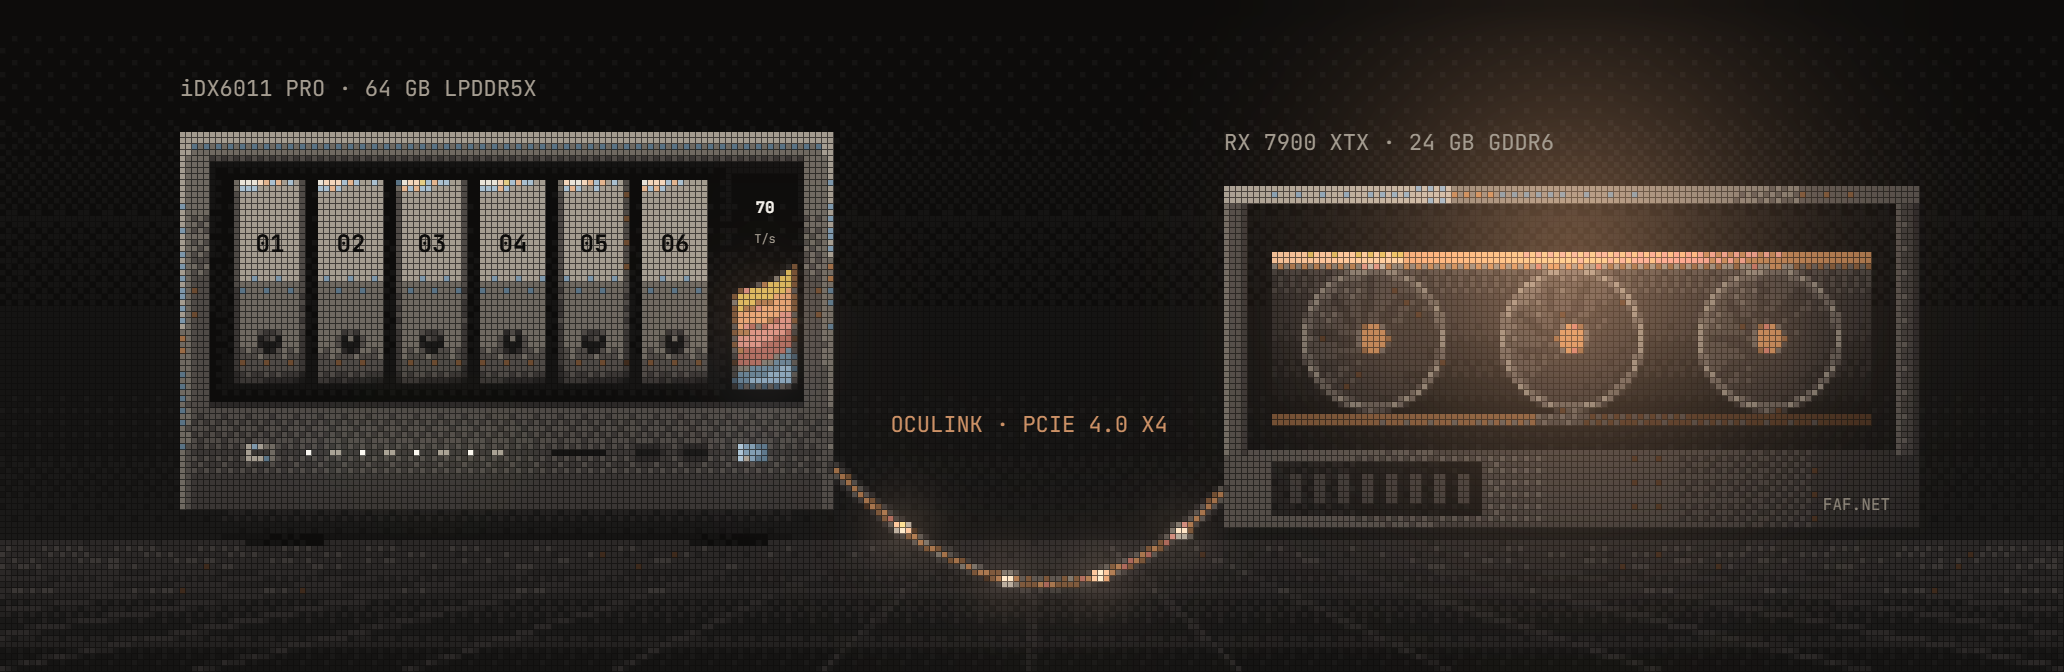
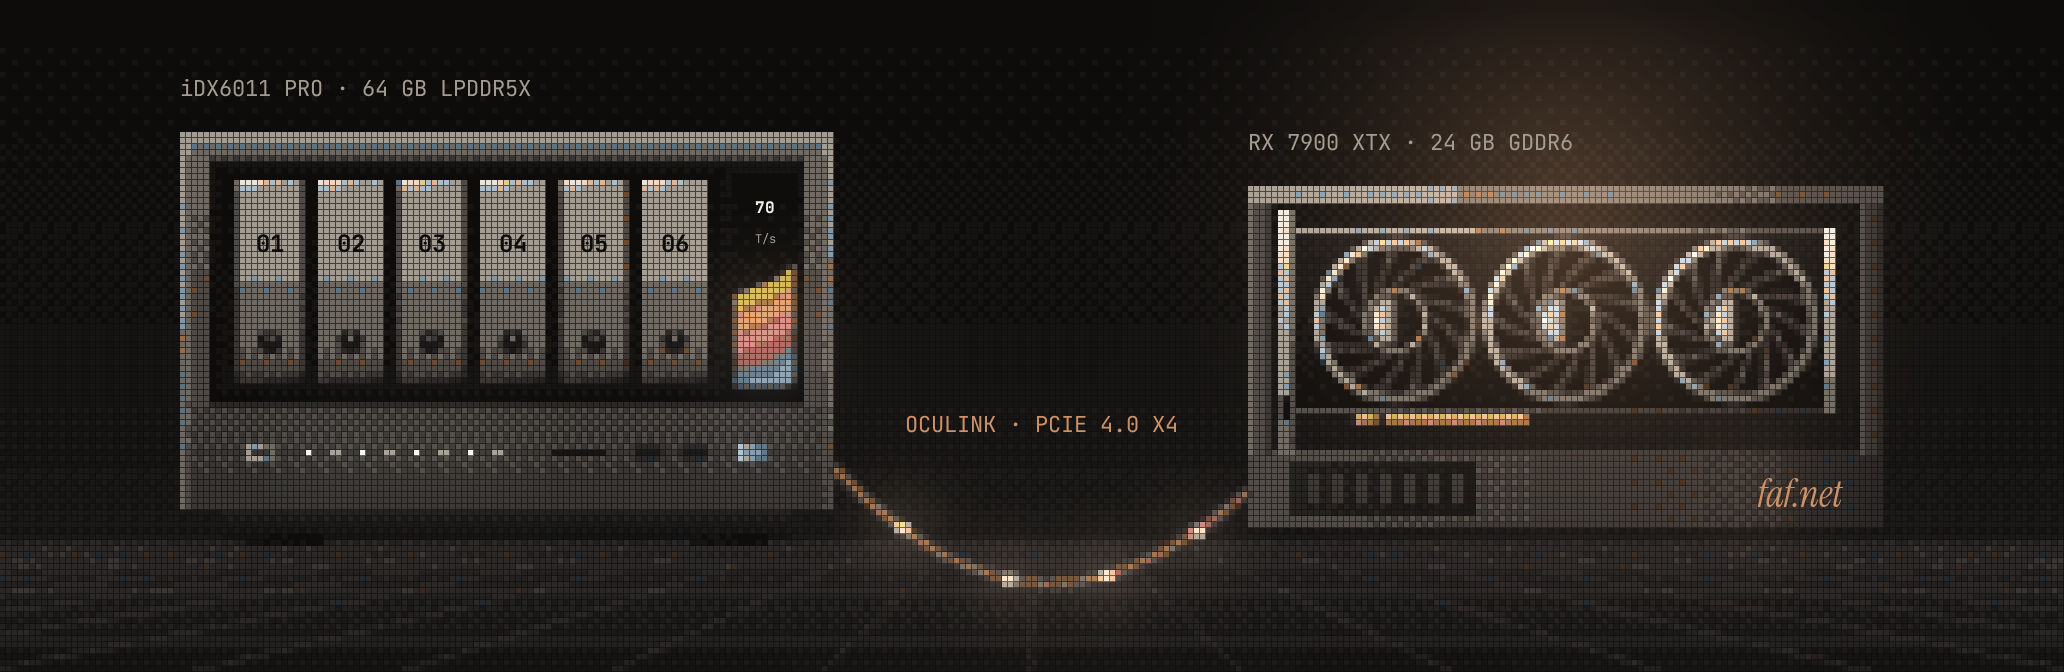
Header picture: the card drawn after the original RX 7900 XTX (proportions, three large fans with silver rings, slot bracket, gold contacts), dock narrower, faf.net as a name plate; renderer embeds the site fonts

diff --git a/web/szene/anlage.js b/web/szene/anlage.js
@@ -49,22 +49,50 @@ function Anlage(canvas, s) {
   kasten(NX + 186, NY + 104, 10, 6, '#a9bfcf', '#5a7385'); leuchte(NX + 191, NY + 107, 9, '#7d97ab', .6);
 
   // ── Dock: offener Rahmen, Netzteil, Karte mit drei Lüftern ──
-  kasten(408, 150, 232, 26, '#4f4a46', '#2b2827');
-  kasten(408, 66, 8, 86, '#6f6961', '#3a3634'); kasten(632, 66, 8, 86, '#4f4a46', '#2b2827'); kasten(408, 62, 232, 6, '#a49c90', '#4f4a46');
-  kasten(424, 154, 70, 18, '#232120', '#151413'); S.fillStyle = '#3a3634'; for (var v = 0; v < 8; v++) S.fillRect(430 + v * 8, 158, 4, 10);
-  kasten(424, 84, 200, 54, '#3a3634', '#151413', true);
-  kasten(424, 84, 200, 5, '#e3b48e', '#9a6b45'); leuchte(524, 86, 150, '#cc9166', .55);
+  // Die Karte nach dem Original (RX 7900 XTX, Frontansicht): Seitenverhältnis 2,9 : 1, schwarzes Gehäuse mit Silberkanten,
+  // drei große Lüfter, die fast die ganze Höhe füllen und sich beinahe berühren, je ein Silberring, gebogene schwarze Blätter
+  // vor hellen Kühlrippen, Nabe halb silbern; links das Slotblech, unten die goldenen PCIe-Kontakte.
+  var DX0 = 416, DW = 212, DR = DX0 + DW;                                                   // Dock 20 Einheiten schmaler als zuvor
+  kasten(DX0, 150, DW, 26, '#4f4a46', '#2b2827');                                           // Sockel mit Netzteil
+  kasten(DX0, 66, 8, 86, '#6f6961', '#3a3634'); kasten(DR - 8, 66, 8, 86, '#4f4a46', '#2b2827'); kasten(DX0, 62, DW, 6, '#a49c90', '#4f4a46');
+  kasten(DX0 + 14, 154, 62, 18, '#232120', '#151413'); S.fillStyle = '#3a3634'; for (var v = 0; v < 7; v++) S.fillRect(DX0 + 20 + v * 8, 158, 4, 10);
+  leuchte(DX0 + DW / 2, 70, 150, '#cc9166', .38);                                           // warmes Licht von oben, schwächer: die Karte bleibt schwarz und silbern
+  var CX = 432, CY = 76, CW = 180, CH = 62;                                                 // Kartenkörper
+  kasten(CX - 6, 70, 5, 82, '#e9e3d8', '#6f6961', true); kasten(CX - 5, 132, 3, 8, '#151413', '#0d0c0b');   // Slotblech mit Anschlüssen
+  [[.11, .15], [.165, .43]].forEach(function (g) { kasten(CX + g[0] * CW, CY + CH, (g[1] - g[0]) * CW, 4, '#e4cd85', '#8d7524', true); });  // PCIe-Kontakte
+  kasten(CX, CY, CW, CH, '#1a1918', '#0d0c0b', true);                                       // Gehäuse
+  kasten(CX, CY, CW, 2, '#a49c90', '#4f4a46'); kasten(CX, CY + CH - 2, CW, 2, '#4f4a46', '#2b2827');   // Silberkanten oben und unten
+  kasten(CX + CW - 4, CY, 4, CH, '#e9e3d8', '#6f6961', true);                               // Silberkappe am Ende
   for (var f = 0; f < 3; f++) {
-    var cx = 458 + f * 66, cy = 113;
-    S.fillStyle = verlauf(cx - 24, cy - 24, cx + 24, cy + 24, [[0, '#4f4a46'], [1, '#1a1918']]); S.beginPath(); S.arc(cx, cy, 23, 0, 7); S.fill();
-    S.strokeStyle = '#6f6961'; S.lineWidth = 2; S.beginPath(); S.arc(cx, cy, 23, 0, 7); S.stroke();
-    S.strokeStyle = '#2b2827'; S.lineWidth = 3; for (var b = 0; b < 9; b++) { var w = b * .7 + f; S.beginPath(); S.moveTo(cx + Math.cos(w) * 6, cy + Math.sin(w) * 6); S.lineTo(cx + Math.cos(w + .5) * 20, cy + Math.sin(w + .5) * 20); S.stroke(); }
-    S.fillStyle = '#9a6b45'; S.beginPath(); S.arc(cx, cy, 5, 0, 7); S.fill(); leuchte(cx, cy, 16, '#cc9166', .5);
+    var cx = CX + [.185, .50, .815][f] * CW, cy = CY + CH / 2, R = 27;
+    S.save(); S.beginPath(); S.arc(cx, cy, R - 1, 0, 7); S.clip();
+    S.fillStyle = '#2b2827'; S.fillRect(cx - R, cy - R, 2 * R, 2 * R);                     // Kühlrippen hinter den Blättern, gedämpft
+    S.fillStyle = '#4f4a46'; for (var r = -R; r < R; r += 4) S.fillRect(cx + r, cy - R, 2, 2 * R);
+    for (var b = 0; b < 13; b++) {                                                          // 13 gebogene Blätter
+      var a = b * 2 * Math.PI / 13 + f * .4;
+      S.fillStyle = '#0d0c0b'; S.beginPath();
+      S.moveTo(cx + Math.cos(a) * 8, cy + Math.sin(a) * 8);
+      S.quadraticCurveTo(cx + Math.cos(a + .55) * 17, cy + Math.sin(a + .55) * 17, cx + Math.cos(a + .95) * (R - 1), cy + Math.sin(a + .95) * (R - 1));
+      S.lineTo(cx + Math.cos(a + 1.28) * (R - 1), cy + Math.sin(a + 1.28) * (R - 1));
+      S.quadraticCurveTo(cx + Math.cos(a + .8) * 15, cy + Math.sin(a + .8) * 15, cx + Math.cos(a + .32) * 8, cy + Math.sin(a + .32) * 8);
+      S.fill();
+      S.strokeStyle = '#3a3634'; S.lineWidth = 1; S.beginPath();                            // Lichtkante am Blatt
+      S.moveTo(cx + Math.cos(a) * 8, cy + Math.sin(a) * 8);
+      S.quadraticCurveTo(cx + Math.cos(a + .55) * 17, cy + Math.sin(a + .55) * 17, cx + Math.cos(a + .95) * (R - 1), cy + Math.sin(a + .95) * (R - 1)); S.stroke();
+    }
+    S.restore();
+    S.strokeStyle = verlauf(cx - R, cy - R, cx + R, cy + R, [[0, '#f5f1eb'], [.45, '#a49c90'], [1, '#4f4a46']]); S.lineWidth = 3;
+    S.beginPath(); S.arc(cx, cy, R - 1, 0, 7); S.stroke();                                  // Silberring
+    S.fillStyle = '#0d0c0b'; S.beginPath(); S.arc(cx, cy, 10, 0, 7); S.fill();              // Nabe: Rand dunkel, links silbern, rechts schwarz
+    S.fillStyle = verlauf(cx - 8, cy, cx + 8, cy, [[0, '#e9e3d8'], [.44, '#a49c90'], [.5, '#151413'], [1, '#0d0c0b']]);
+    S.beginPath(); S.arc(cx, cy, 8, 0, 7); S.fill();
+    S.strokeStyle = '#a49c90'; S.lineWidth = 1.5; S.beginPath(); S.arc(cx, cy, 10, 0, 7); S.stroke();
+    leuchte(cx - 10, cy - 14, 12, '#e9e3d8', .18);                                          // Glanz auf dem Ring
   }
-  kasten(424, 138, 200, 4, '#6b4a30', '#3e2a1c');
+  leuchte(DR - 44, 163, 34, '#cc9166', .22);                                                // hinterleuchtetes Namensschild
 
   // ── OCuLink: Kabel mit laufenden Lichtpunkten ──
-  var K = [[NX + NW, 156], [326, 206], [368, 206], [408, 164]];
+  var K = [[NX + NW, 156], [326, 206], [368, 206], [DX0, 164]];
   function kabel(ctx, breite, farbe) { ctx.strokeStyle = farbe; ctx.lineWidth = breite; ctx.lineCap = 'round'; ctx.beginPath(); ctx.moveTo(K[0][0], K[0][1]); ctx.bezierCurveTo(K[1][0], K[1][1], K[2][0], K[2][1], K[3][0], K[3][1]); ctx.stroke(); }
   kabel(S, 5, '#3a3634'); kabel(S, 2, '#9a6b45');
   [[.16, 1], [.42, .8], [.66, 1], [.88, .7]].forEach(function (p) {
@@ -79,10 +107,11 @@ function Anlage(canvas, s) {
   C.textBaseline = 'alphabetic';
   C.font = '500 ' + Math.round(11 * k) + 'px "JetBrains Mono", Consolas, monospace';
   function marke(text, x, y, farbe) { C.fillStyle = farbe; C.fillText(text, Math.round(x * m), Math.round(y * m)); }
-  marke('iDX6011 PRO · 64 GB LPDDR5X', NX, NY - 12, '#a49c90'); marke('RX 7900 XTX · 24 GB GDDR6', 408, 50, '#a49c90');
+  marke('iDX6011 PRO · 64 GB LPDDR5X', NX, NY - 12, '#a49c90'); marke('RX 7900 XTX · 24 GB GDDR6', DX0, 50, '#a49c90');
   C.textAlign = 'center'; marke('OCULINK · PCIE 4.0 X4', (K[0][0] + K[3][0]) / 2, 144, '#cc9166');   // mittig über dem Kabel
-  C.font = '500 ' + Math.round(8 * k) + 'px "JetBrains Mono", Consolas, monospace'; C.textAlign = 'end';
-  marke('FAF.NET', 630, 170, '#8b8377');                                                              // dezent rechts unten im Dock
+  // faf.net als Namensschild im Sockel des Docks: Instrument Serif kursiv wie die Kapitelüberschriften, in Bernstein
+  C.font = 'italic 400 ' + Math.round(19 * k) + 'px "Instrument Serif", Georgia, serif'; C.textAlign = 'end';
+  marke('faf.net', DR - 14, 169, '#cc9166');
   C.textAlign = 'start';
   C.font = '700 ' + Math.round(12 * k) + 'px "JetBrains Mono", Consolas, monospace'; C.textAlign = 'center';
   for (var z = 0; z < 6; z++) marke('0' + (z + 1), TX + z * TA + TB / 2, NY + 40, '#0d0c0b');

diff --git a/web/szene.py b/web/szene.py
@@ -9,11 +9,17 @@ from playwright.sync_api import sync_playwright
 HIER = os.path.dirname(os.path.abspath(__file__))
 baustein = open(os.path.expanduser(sys.argv[1]), encoding="utf-8").read()
 szene = open(os.path.join(HIER, "szene", "anlage.js"), encoding="utf-8").read()
+# Die Schriften der Seite fest einbinden (web/fonts), damit das Bild auf jedem Rechner gleich wird, auch ohne installierte Schriften.
+F = os.path.join(HIER, "fonts").replace("\\", "/")
+schriften = "".join(f'@font-face{{font-family:"{n}";font-weight:{w};font-style:{st};src:url("file:///{F.lstrip("/")}/{d}") format("woff2")}}' for n, w, st, d in (
+    ("JetBrains Mono", 400, "normal", "jetbrains-mono-400.woff2"), ("JetBrains Mono", 500, "normal", "jetbrains-mono-400.woff2"),
+    ("JetBrains Mono", 700, "normal", "jetbrains-mono-700.woff2"), ("Instrument Serif", 400, "italic", "instrument-serif-400-italic.woff2")))
+laden = "Promise.all([document.fonts.load('500 11px \\\"JetBrains Mono\\\"'),document.fonts.load('700 11px \\\"JetBrains Mono\\\"'),document.fonts.load('italic 400 20px \\\"Instrument Serif\\\"')])"
 with sync_playwright() as pw:
     try: b = pw.chromium.launch()
     except Exception: b = pw.chromium.launch(channel="chrome")
     for s, name in ((3, "anlage"), (6, "anlage@2x")):
-        seite = f'<!DOCTYPE html><meta charset="utf-8"><body style="margin:0;background:#0d0c0b"><canvas id="cv"></canvas><script>{baustein}</script><script>{szene}</script><script>document.fonts.load(\'500 11px "JetBrains Mono"\').then(function(){{Anlage(document.getElementById("cv"),{s});document.title="fertig"}})</script>'
+        seite = f'<!DOCTYPE html><meta charset="utf-8"><style>{schriften}</style><body style="margin:0;background:#0d0c0b"><canvas id="cv"></canvas><script>{baustein}</script><script>{szene}</script><script>{laden}.then(function(){{Anlage(document.getElementById("cv"),{s});document.title="fertig"}})</script>'
         t = tempfile.NamedTemporaryFile("w", suffix=".html", delete=False, encoding="utf-8"); t.write(seite); t.close()
         p = b.new_page(viewport={"width": 344 * s, "height": 112 * s}, device_scale_factor=1)
         p.goto("file:///" + t.name.replace("\\", "/")); p.wait_for_function('document.title === "fertig"')
